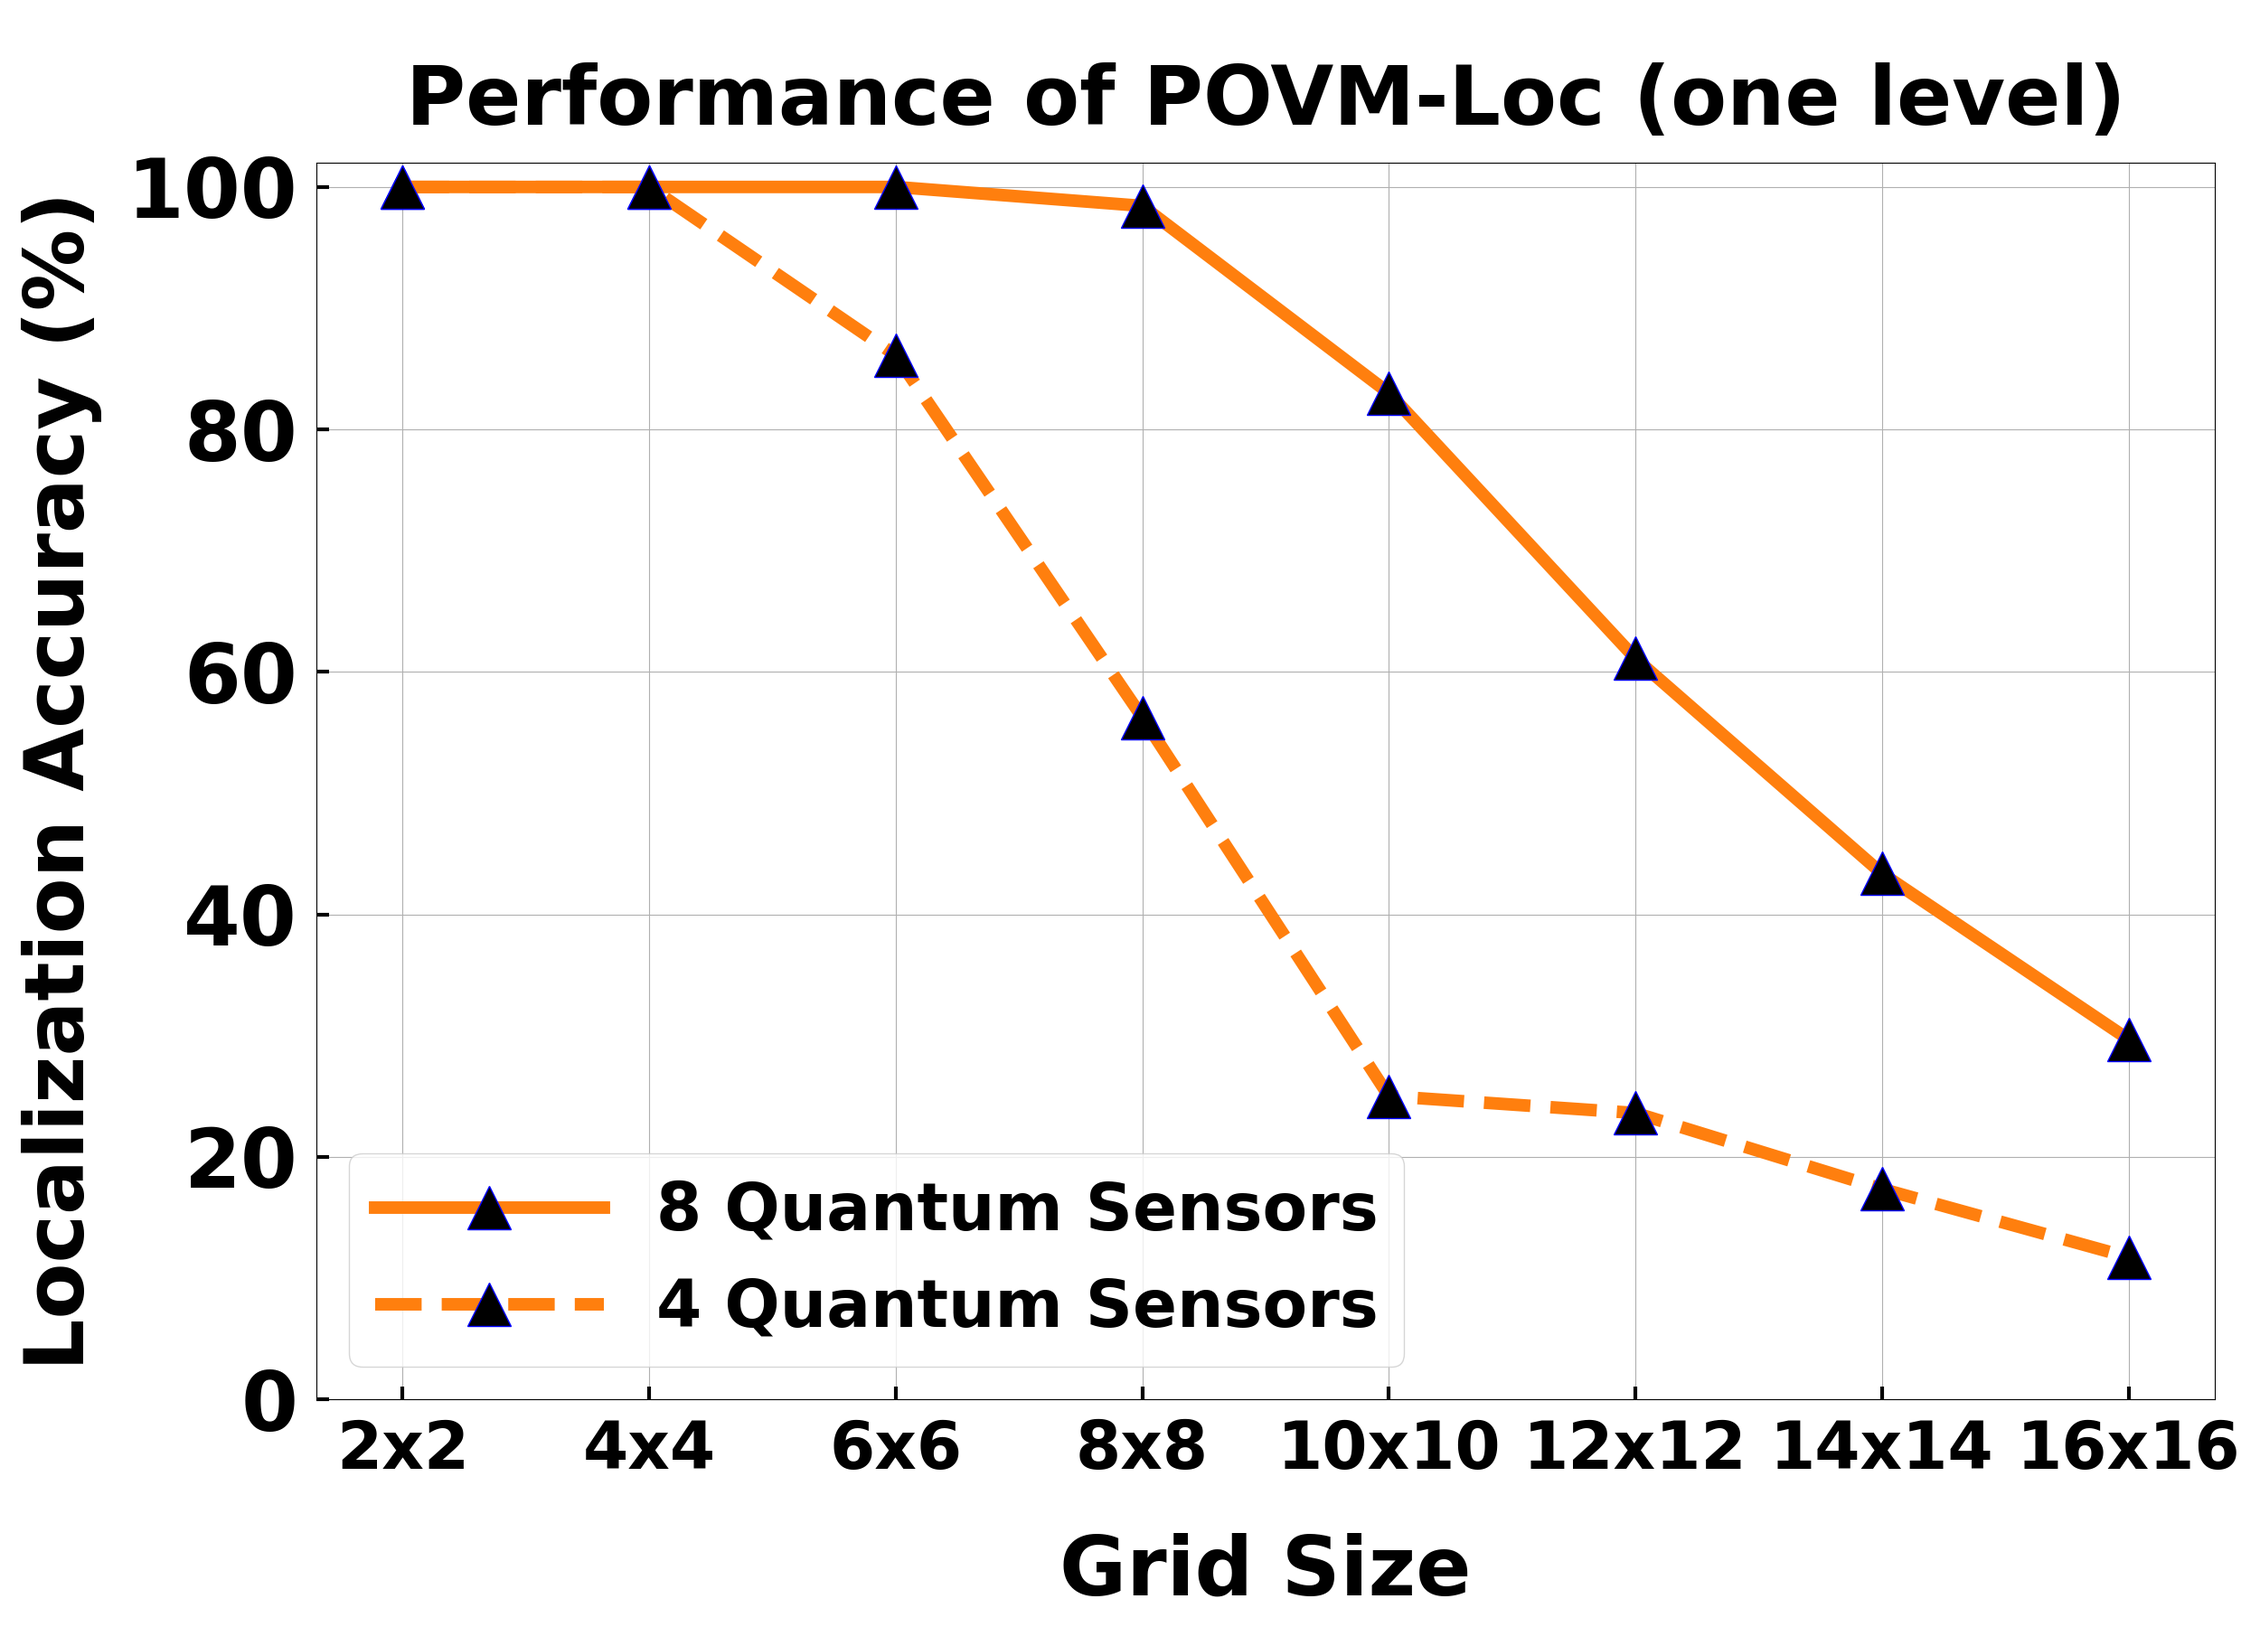
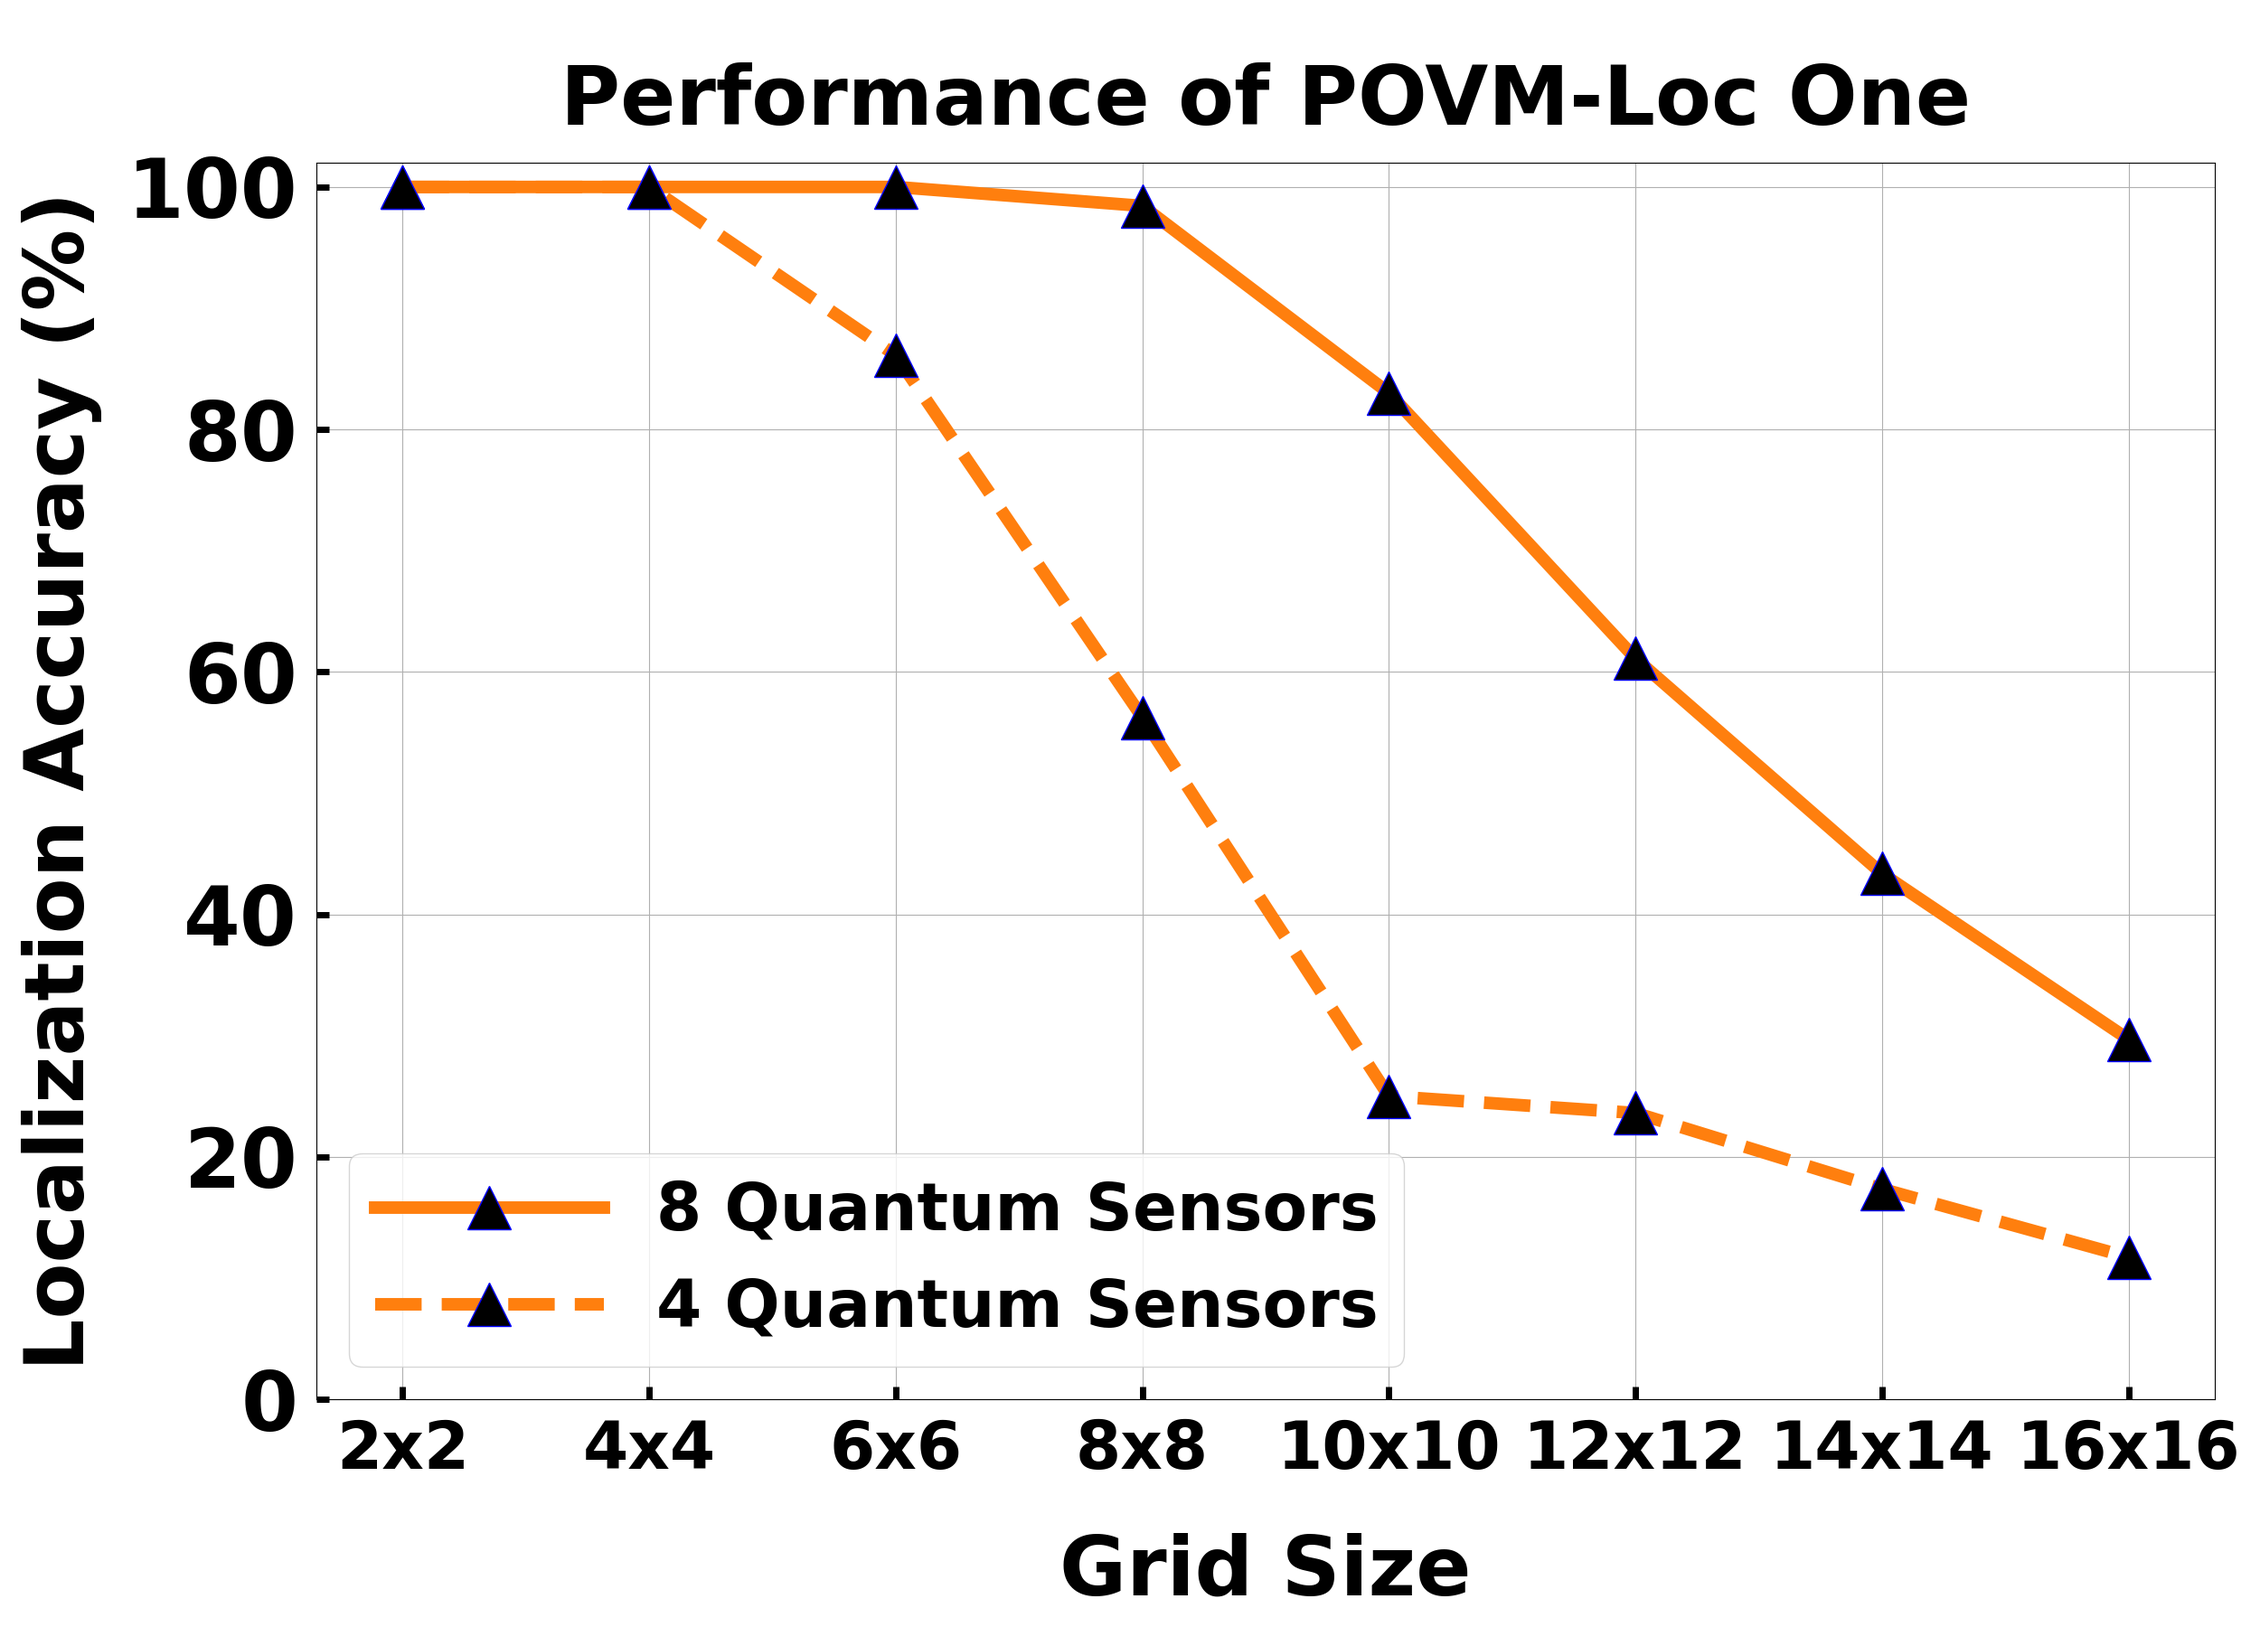
finished all the experiments and plots!

Changed region(s): [[0.156, 0.0311, 0.936, 0.0933]]

diff --git a/plot.py b/plot.py
@@ -16,7 +16,7 @@ class Plot:
     plt.rcParams['axes.labelweight'] = 'bold'
 
     METHOD  = ['povmloc-one',          'povmloc',  'povmloc-pro']
-    _LEGEND = ['POVM-Loc (one level)', 'POVM-Loc', 'POVM-Loc Pro']
+    _LEGEND = ['POVM-Loc One', 'POVM-Loc', 'POVM-Loc Pro']
     LEGEND  = dict(zip(METHOD, _LEGEND))
 
     METHOD  = ['povmloc-one', 'povmloc', 'povmloc-pro']
@@ -40,7 +40,7 @@ class Plot:
 
 
     @staticmethod
-    def reduce_accuracy(vals: list):
+    def reduce_accuracy(vals: list) -> float:
         '''vals is a list of True/False bools
         '''
         vals = [val for val in vals if val is not None]
@@ -48,6 +48,15 @@ class Plot:
             return vals.count(True) / len(vals)
         else:
             return 0
+
+
+    @staticmethod
+    def reduce_average(vals: list) -> float:
+        '''vals is a list of float
+        '''
+        vals = [val for val in vals if val is not None]
+        return np.mean(vals)
+
 
     @staticmethod
     def povmloc_one_vary_gridsize(data: list, figname: str):
@@ -78,8 +87,8 @@ class Plot:
         ax.grid(True)
         ax.set_xticks(X)
         ax.set_xticklabels([f'{int(x)}x{int(x)}' for x in X])
-        ax.tick_params(axis='x', pad=15, direction='in', length=10, width=3, labelsize=52)
-        ax.tick_params(axis='y', pad=15, direction='in', length=10, width=3)
+        ax.tick_params(axis='x', pad=15, direction='in', length=10, width=5, labelsize=52)
+        ax.tick_params(axis='y', pad=15, direction='in', length=10, width=5)
         ax.set_ylabel('Localization Accuracy (%)', labelpad=20)
         ax.set_ylim([0, 102])
         method = Plot.LEGEND['povmloc-one']
@@ -115,8 +124,8 @@ class Plot:
         ax.set_xlabel('Noise (Std. of Shadowing)', labelpad=40)
         ax.grid(True)
         ax.set_xticks(X)
-        ax.tick_params(axis='x', pad=15, direction='in', length=10, width=3, labelsize=60)
-        ax.tick_params(axis='y', pad=15, direction='in', length=10, width=3, labelsize=60)
+        ax.tick_params(axis='x', pad=15, direction='in', length=10, width=5, labelsize=60)
+        ax.tick_params(axis='y', pad=15, direction='in', length=10, width=5, labelsize=60)
         ax.set_ylabel('Localization Accuracy (%)', labelpad=20)
         ax.set_ylim([87, 100.2])
         method1 = Plot.LEGEND['povmloc']
@@ -152,11 +161,26 @@ class Plot:
         ax.set_ylabel('Cumulative Distribution (CDF)', labelpad=40)
         ax.set_ylim([0, 1.003])
         ax.set_xlim([0, 30])
-        ax.tick_params(axis='x', pad=15, direction='in', length=10, width=3, labelsize=60)
-        ax.tick_params(axis='y', pad=15, direction='in', length=10, width=3, labelsize=60)
+        ax.tick_params(axis='x', pad=15, direction='in', length=10, width=5, labelsize=60)
+        ax.tick_params(axis='y', pad=15, direction='in', length=10, width=5, labelsize=60)
         ax.set_title('CDF of Localization Error in 16x16 Grid', pad=30, fontsize=63, fontweight='bold')
         fig.savefig(figname)
         
+
+    @staticmethod
+    def print_runtime(data: list):
+        reduce = Plot.reduce_average
+        methods = ['povmloc-one', 'povmloc', 'povmloc-pro']
+        table = defaultdict(list)
+        for myinput, output_by_method in data:
+            # if myinput.sensor_num == 8:
+            if myinput.sensor_num == 4:
+                table[myinput.grid_length].append({method: output.elapse for method, output in output_by_method.items()})
+        print_table = []
+        for x, list_of_y_by_method in sorted(table.items()):
+            tmp_list = [reduce([(y_by_method[method] if method in y_by_method else None) for y_by_method in list_of_y_by_method]) for method in methods]
+            print_table.append([x] + tmp_list)
+        print(tabulate.tabulate(print_table, headers=['Grid Length'] + methods))
 
 
 def povmloc_one_varygridsize():
@@ -186,6 +210,14 @@ def localization_error_cdf():
     Plot.error_cdf(data, figname)
 
 
+def runtime():
+    '''the runtime
+    '''
+    logs = ['results/runtime']
+    data = Utility.read_logs(logs)
+    Plot.print_runtime(data)
+
+
 
 if __name__ == '__main__':
 
@@ -194,6 +226,8 @@ if __name__ == '__main__':
     povmloc_varynoise()
 
     localization_error_cdf()
+
+    runtime()
 
 
 '''
@@ -221,5 +255,30 @@ POVM-Loc and POVM-Loc Pro
       2   0.929688       0.996094
       3   0.921875       0.996094
       4   0.914062       0.992188
+
+
+Runtime
+
+Grid Length    povmloc-one    povmloc    povmloc-pro
+-------------  -------------  ---------  -------------
+            2        4.77333    nan            nan
+            4        9.0775     nan            nan
+            6       27.4        nan            nan
+            8       53.06       nan            nan
+           10       80.565      nan            nan
+           12      113.365      nan            nan
+           14      149.387      nan            nan
+           16      193.818       10.256         11.252
+
+Grid Length    povmloc-one    povmloc    povmloc-pro
+-------------  -------------  ---------  -------------
+            2         1.04          nan            nan
+            4         1.0675        nan            nan
+            6         1.222         nan            nan
+            8         1.424         nan            nan
+           10         1.626         nan            nan
+           12         1.996         nan            nan
+           14         2.314         nan            nan
+           16         2.666         nan            nan
 
 '''

diff --git a/runner.py b/runner.py
@@ -82,11 +82,54 @@ def plot3():
         p.wait()
 
 
+def table():
+    '''a table for run time. the experiment data for plots 1,2,3 are collected on different machines
+       to collect runtime, need to run experiments on the same machine
+    '''
+    # template = 'python main.py -m {} {} {} -l {} -s {} -n {} -of {}'
+    # config = [
+    #    ['povmloc', 'povmloc-pro', 'povmloc-one', 16, 8, 1, 'runtime'],
+    # ]
+
+    # for i, c in enumerate(config):
+    #     command = template.format(c[0], c[1], c[2], c[3], c[4], c[5], c[6])
+    #     print(command)
+    #     p = Popen(command, shell=True)
+    #     p.wait()
+
+    template = 'python main.py -m {} -l {} -s {} -n {} -of {}'
+    config = [
+    #    ['povmloc-one', 2, 4, 1, 'runtime'],
+    #    ['povmloc-one', 4, 4, 1, 'runtime'],
+    #    ['povmloc-one', 6, 4, 1, 'runtime'],
+    #    ['povmloc-one', 8, 4, 1, 'runtime'],
+    #    ['povmloc-one', 10, 4, 1, 'runtime'],
+    #    ['povmloc-one', 12, 4, 1, 'runtime'],
+    #    ['povmloc-one', 14, 4, 1, 'runtime'],
+    #    ['povmloc-one', 16, 4, 1, 'runtime'],
+    #    ['povmloc-one', 2, 8, 1, 'runtime'],
+       ['povmloc-one', 4, 8, 1, 'runtime'],
+    #    ['povmloc-one', 6, 8, 1, 'runtime'],
+    #    ['povmloc-one', 8, 8, 1, 'runtime'],
+    #    ['povmloc-one', 10, 8, 1, 'runtime'],
+    #    ['povmloc-one', 12, 8, 1, 'runtime'],
+    #    ['povmloc-one', 14, 8, 1, 'runtime'],
+    ]
+
+    for i, c in enumerate(config):
+        command = template.format(c[0], c[1], c[2], c[3], c[4])
+        print(command)
+        p = Popen(command, shell=True)
+        p.wait()
+
+
 
 
 if  __name__ == '__main__':
     
     # plot1()
     # plot2()
-    plot3()
+    # plot3()
+
+    table()
     

diff --git a/main.py b/main.py
@@ -49,12 +49,12 @@ if __name__ == '__main__':
         qls['povmloc'] = ql
     
     # testing phase for discrete
+    mylogger = MyLogger(output_dir, output_file)
     if continuous == False:
-        mylogger = MyLogger(output_dir, output_file)
         tx_list = [(x + 0.5, y + 0.5) for x in range(grid_length) for y in range(grid_length)]
         for i, tx in enumerate(tx_list):
-            # if i not in [4]:
-            #     continue
+            if i not in [1, 4, 16, 64]:
+                continue
             myinput = Input(tx, grid_length, sensor_num, noise, continuous)
             outputs = []
             if 'povmloc-one' in methods:
@@ -80,7 +80,6 @@ if __name__ == '__main__':
             time.sleep(0.5)
     else:
         np.random.seed(0)
-        mylogger = MyLogger(output_dir, output_file)
         tx_list = [(x + 0.5 + np.random.uniform(-0.5, 0.5), y + 0.5 + np.random.uniform(-0.5, 0.5)) for x in range(grid_length) for y in range(grid_length)]
         for i, tx in enumerate(tx_list):
             # if i not in [4]:

diff --git a/localization.py b/localization.py
@@ -331,7 +331,7 @@ class QuantumLocalization:
             return level_1_correct, level_1_locerror, tx_level1
 
 
-    def povmloc_pro(self, tx_truth: tuple, continuous: bool = True) -> tuple:
+    def povmloc_pro(self, tx_truth: tuple, continuous: bool = False) -> tuple:
         '''the two level POVM-Loc Pro, it do another POVM for block edge cases
         Args:
             tx         -- the location of the transmitter
@@ -409,10 +409,11 @@ class QuantumLocalization:
                 print('level-1.5 tx', tx_level1, round(level_1_locerror, 3))
                 return level_1_correct, level_1_locerror, tx_level1
         if not continuous:
+            print()
             return level_1_correct, tx_level1
         else:
             level_1_locerror = Utility.distance(tx_truth, tx_level1, Default.cell_length)
-            print('level-1 tx', tx_level1, round(level_1_locerror, 3))
+            print('error', round(level_1_locerror, 3))
             return level_1_correct, level_1_locerror, tx_level1
 
 
